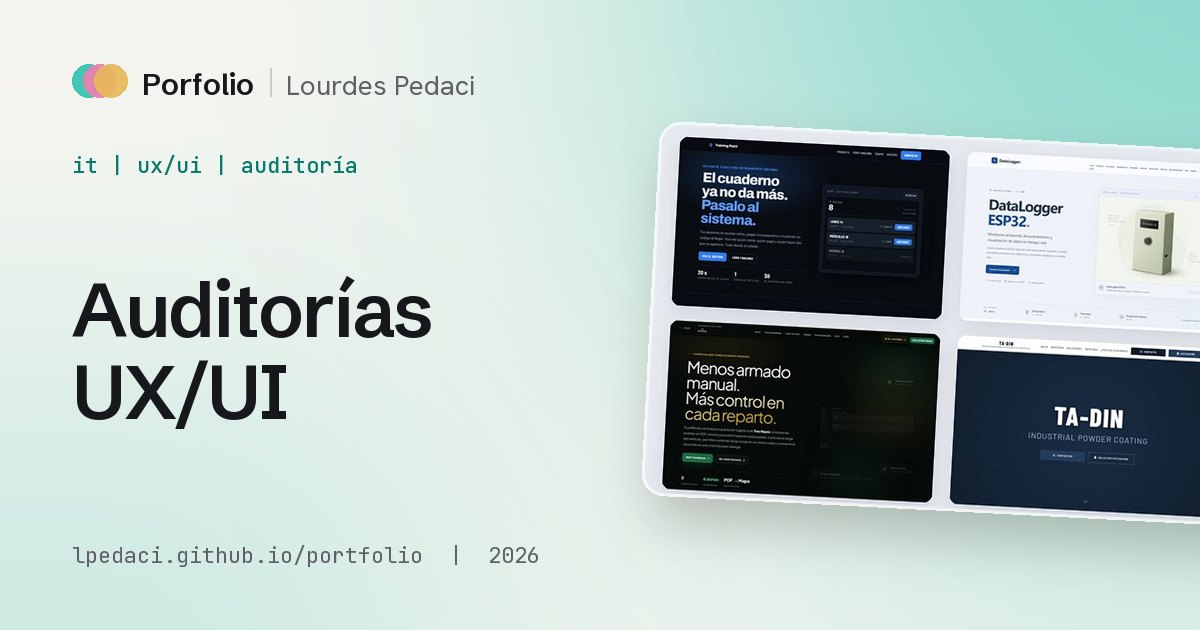
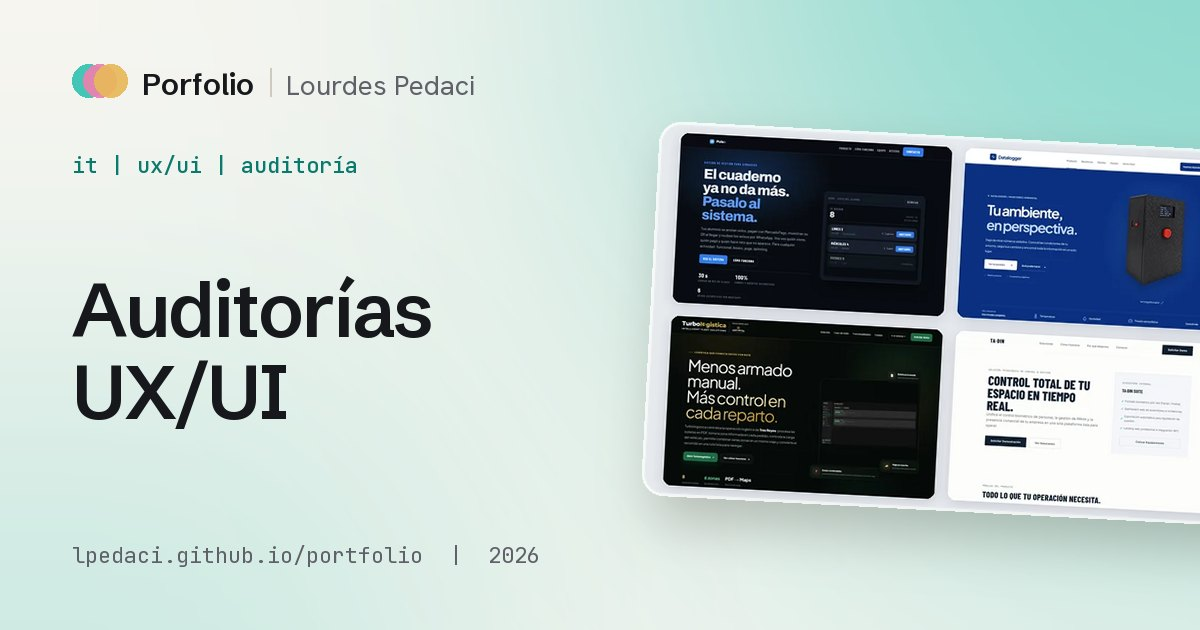
fix: Auditorías UX/UI con la portada armada con las capturas actuales del hub (Pulso1, Datalogger, Tres Reyes y TADIN), enlaces de Pulso1 y TADIN a sus landings nuevas y la tarjeta de Pulso1 renombrada como Gimnasio

Changed region(s): [[0.555, 0.2111, 1.0, 0.8444], [0.6783, 0.7238, 0.7092, 0.754]]

diff --git a/casos/el-aula-que-incluye/index.html b/casos/el-aula-que-incluye/index.html
@@ -33,9 +33,9 @@
   <meta name="twitter:image:alt" content="El aula que incluye: IA generativa para la inclusión en el nivel inicial: caso del porfolio de Lourdes Pedaci, Experience Designer, con una captura del proyecto.">
   <link rel="preload" href="../../assets/fonts/hanken-grotesk-latin.woff2" as="font" type="font/woff2" crossorigin>
   <link rel="preload" href="../../assets/fonts/schibsted-grotesk-latin.woff2" as="font" type="font/woff2" crossorigin>
-  <link rel="stylesheet" href="../../assets/css/fonts.css?v=202611230020">
-  <link rel="stylesheet" href="../../assets/css/icons.css?v=202611230020">
-  <link rel="stylesheet" href="../../assets/css/styles.css?v=202611230020">
+  <link rel="stylesheet" href="../../assets/css/fonts.css?v=202611230028">
+  <link rel="stylesheet" href="../../assets/css/icons.css?v=202611230028">
+  <link rel="stylesheet" href="../../assets/css/styles.css?v=202611230028">
 </head>
 <body data-slug="el-aula-que-incluye">
   <a class="skip" href="#main" data-i18n="skip">Ir al contenido</a>
@@ -71,10 +71,10 @@
       <a class="foot__top" href="#main"><span data-i18n="backTop">Volver arriba</span><i class="ph ph-arrow-up" aria-hidden="true"></i></a>
     </div>
   </footer>
-  <script src="../../assets/js/i18n.js?v=202611230020"></script>
-  <script src="../../assets/js/projects.js?v=202611230020"></script>
-  <script src="../../assets/js/cases.js?v=202611230020"></script>
-  <script src="../../assets/js/case.js?v=202611230020"></script>
-  <script src="../../assets/js/nav.js?v=202611230020"></script>
+  <script src="../../assets/js/i18n.js?v=202611230028"></script>
+  <script src="../../assets/js/projects.js?v=202611230028"></script>
+  <script src="../../assets/js/cases.js?v=202611230028"></script>
+  <script src="../../assets/js/case.js?v=202611230028"></script>
+  <script src="../../assets/js/nav.js?v=202611230028"></script>
 </body>
 </html>

diff --git a/casos/servidor/index.html b/casos/servidor/index.html
@@ -33,9 +33,9 @@
   <meta name="twitter:image:alt" content="Repositorio web de recursos para autocapacitarse: análisis y diseño UX/UI: caso del porfolio de Lourdes Pedaci, Experience Designer, con una captura del proyecto.">
   <link rel="preload" href="../../assets/fonts/hanken-grotesk-latin.woff2" as="font" type="font/woff2" crossorigin>
   <link rel="preload" href="../../assets/fonts/schibsted-grotesk-latin.woff2" as="font" type="font/woff2" crossorigin>
-  <link rel="stylesheet" href="../../assets/css/fonts.css?v=202611230020">
-  <link rel="stylesheet" href="../../assets/css/icons.css?v=202611230020">
-  <link rel="stylesheet" href="../../assets/css/styles.css?v=202611230020">
+  <link rel="stylesheet" href="../../assets/css/fonts.css?v=202611230028">
+  <link rel="stylesheet" href="../../assets/css/icons.css?v=202611230028">
+  <link rel="stylesheet" href="../../assets/css/styles.css?v=202611230028">
 </head>
 <body data-slug="servidor">
   <a class="skip" href="#main" data-i18n="skip">Ir al contenido</a>
@@ -71,10 +71,10 @@
       <a class="foot__top" href="#main"><span data-i18n="backTop">Volver arriba</span><i class="ph ph-arrow-up" aria-hidden="true"></i></a>
     </div>
   </footer>
-  <script src="../../assets/js/i18n.js?v=202611230020"></script>
-  <script src="../../assets/js/projects.js?v=202611230020"></script>
-  <script src="../../assets/js/cases.js?v=202611230020"></script>
-  <script src="../../assets/js/case.js?v=202611230020"></script>
-  <script src="../../assets/js/nav.js?v=202611230020"></script>
+  <script src="../../assets/js/i18n.js?v=202611230028"></script>
+  <script src="../../assets/js/projects.js?v=202611230028"></script>
+  <script src="../../assets/js/cases.js?v=202611230028"></script>
+  <script src="../../assets/js/case.js?v=202611230028"></script>
+  <script src="../../assets/js/nav.js?v=202611230028"></script>
 </body>
 </html>

diff --git a/casos/podcast-el-aula-que-incluye/index.html b/casos/podcast-el-aula-que-incluye/index.html
@@ -33,9 +33,9 @@
   <meta name="twitter:image:alt" content="Podcast El aula que incluye, a dos voces sintéticas: caso del porfolio de Lourdes Pedaci, Experience Designer, con una captura del proyecto.">
   <link rel="preload" href="../../assets/fonts/hanken-grotesk-latin.woff2" as="font" type="font/woff2" crossorigin>
   <link rel="preload" href="../../assets/fonts/schibsted-grotesk-latin.woff2" as="font" type="font/woff2" crossorigin>
-  <link rel="stylesheet" href="../../assets/css/fonts.css?v=202611230020">
-  <link rel="stylesheet" href="../../assets/css/icons.css?v=202611230020">
-  <link rel="stylesheet" href="../../assets/css/styles.css?v=202611230020">
+  <link rel="stylesheet" href="../../assets/css/fonts.css?v=202611230028">
+  <link rel="stylesheet" href="../../assets/css/icons.css?v=202611230028">
+  <link rel="stylesheet" href="../../assets/css/styles.css?v=202611230028">
 </head>
 <body data-slug="podcast-el-aula-que-incluye">
   <a class="skip" href="#main" data-i18n="skip">Ir al contenido</a>
@@ -71,10 +71,10 @@
       <a class="foot__top" href="#main"><span data-i18n="backTop">Volver arriba</span><i class="ph ph-arrow-up" aria-hidden="true"></i></a>
     </div>
   </footer>
-  <script src="../../assets/js/i18n.js?v=202611230020"></script>
-  <script src="../../assets/js/projects.js?v=202611230020"></script>
-  <script src="../../assets/js/cases.js?v=202611230020"></script>
-  <script src="../../assets/js/case.js?v=202611230020"></script>
-  <script src="../../assets/js/nav.js?v=202611230020"></script>
+  <script src="../../assets/js/i18n.js?v=202611230028"></script>
+  <script src="../../assets/js/projects.js?v=202611230028"></script>
+  <script src="../../assets/js/cases.js?v=202611230028"></script>
+  <script src="../../assets/js/case.js?v=202611230028"></script>
+  <script src="../../assets/js/nav.js?v=202611230028"></script>
 </body>
 </html>

diff --git a/casos/preguntale-a-berni/index.html b/casos/preguntale-a-berni/index.html
@@ -33,9 +33,9 @@
   <meta name="twitter:image:alt" content="Preguntale a Berni: un asistente guiado sin campo de texto: caso del porfolio de Lourdes Pedaci, Experience Designer, con una captura del proyecto.">
   <link rel="preload" href="../../assets/fonts/hanken-grotesk-latin.woff2" as="font" type="font/woff2" crossorigin>
   <link rel="preload" href="../../assets/fonts/schibsted-grotesk-latin.woff2" as="font" type="font/woff2" crossorigin>
-  <link rel="stylesheet" href="../../assets/css/fonts.css?v=202611230020">
-  <link rel="stylesheet" href="../../assets/css/icons.css?v=202611230020">
-  <link rel="stylesheet" href="../../assets/css/styles.css?v=202611230020">
+  <link rel="stylesheet" href="../../assets/css/fonts.css?v=202611230028">
+  <link rel="stylesheet" href="../../assets/css/icons.css?v=202611230028">
+  <link rel="stylesheet" href="../../assets/css/styles.css?v=202611230028">
 </head>
 <body data-slug="preguntale-a-berni">
   <a class="skip" href="#main" data-i18n="skip">Ir al contenido</a>
@@ -71,10 +71,10 @@
       <a class="foot__top" href="#main"><span data-i18n="backTop">Volver arriba</span><i class="ph ph-arrow-up" aria-hidden="true"></i></a>
     </div>
   </footer>
-  <script src="../../assets/js/i18n.js?v=202611230020"></script>
-  <script src="../../assets/js/projects.js?v=202611230020"></script>
-  <script src="../../assets/js/cases.js?v=202611230020"></script>
-  <script src="../../assets/js/case.js?v=202611230020"></script>
-  <script src="../../assets/js/nav.js?v=202611230020"></script>
+  <script src="../../assets/js/i18n.js?v=202611230028"></script>
+  <script src="../../assets/js/projects.js?v=202611230028"></script>
+  <script src="../../assets/js/cases.js?v=202611230028"></script>
+  <script src="../../assets/js/case.js?v=202611230028"></script>
+  <script src="../../assets/js/nav.js?v=202611230028"></script>
 </body>
 </html>

diff --git a/casos/escape-room-finanzas/index.html b/casos/escape-room-finanzas/index.html
@@ -33,9 +33,9 @@
   <meta name="twitter:image:alt" content="Tu primer sueldo: escape room de finanzas personales: caso del porfolio de Lourdes Pedaci, Experience Designer, con una captura del proyecto.">
   <link rel="preload" href="../../assets/fonts/hanken-grotesk-latin.woff2" as="font" type="font/woff2" crossorigin>
   <link rel="preload" href="../../assets/fonts/schibsted-grotesk-latin.woff2" as="font" type="font/woff2" crossorigin>
-  <link rel="stylesheet" href="../../assets/css/fonts.css?v=202611230020">
-  <link rel="stylesheet" href="../../assets/css/icons.css?v=202611230020">
-  <link rel="stylesheet" href="../../assets/css/styles.css?v=202611230020">
+  <link rel="stylesheet" href="../../assets/css/fonts.css?v=202611230028">
+  <link rel="stylesheet" href="../../assets/css/icons.css?v=202611230028">
+  <link rel="stylesheet" href="../../assets/css/styles.css?v=202611230028">
 </head>
 <body data-slug="escape-room-finanzas">
   <a class="skip" href="#main" data-i18n="skip">Ir al contenido</a>
@@ -71,10 +71,10 @@
       <a class="foot__top" href="#main"><span data-i18n="backTop">Volver arriba</span><i class="ph ph-arrow-up" aria-hidden="true"></i></a>
     </div>
   </footer>
-  <script src="../../assets/js/i18n.js?v=202611230020"></script>
-  <script src="../../assets/js/projects.js?v=202611230020"></script>
-  <script src="../../assets/js/cases.js?v=202611230020"></script>
-  <script src="../../assets/js/case.js?v=202611230020"></script>
-  <script src="../../assets/js/nav.js?v=202611230020"></script>
+  <script src="../../assets/js/i18n.js?v=202611230028"></script>
+  <script src="../../assets/js/projects.js?v=202611230028"></script>
+  <script src="../../assets/js/cases.js?v=202611230028"></script>
+  <script src="../../assets/js/case.js?v=202611230028"></script>
+  <script src="../../assets/js/nav.js?v=202611230028"></script>
 </body>
 </html>

diff --git a/casos/sistemas-operativos/index.html b/casos/sistemas-operativos/index.html
@@ -33,9 +33,9 @@
   <meta name="twitter:image:alt" content="Sistemas Operativos: almacenamiento y seteo: caso del porfolio de Lourdes Pedaci, Experience Designer, con una captura del proyecto.">
   <link rel="preload" href="../../assets/fonts/hanken-grotesk-latin.woff2" as="font" type="font/woff2" crossorigin>
   <link rel="preload" href="../../assets/fonts/schibsted-grotesk-latin.woff2" as="font" type="font/woff2" crossorigin>
-  <link rel="stylesheet" href="../../assets/css/fonts.css?v=202611230020">
-  <link rel="stylesheet" href="../../assets/css/icons.css?v=202611230020">
-  <link rel="stylesheet" href="../../assets/css/styles.css?v=202611230020">
+  <link rel="stylesheet" href="../../assets/css/fonts.css?v=202611230028">
+  <link rel="stylesheet" href="../../assets/css/icons.css?v=202611230028">
+  <link rel="stylesheet" href="../../assets/css/styles.css?v=202611230028">
 </head>
 <body data-slug="sistemas-operativos">
   <a class="skip" href="#main" data-i18n="skip">Ir al contenido</a>
@@ -71,10 +71,10 @@
       <a class="foot__top" href="#main"><span data-i18n="backTop">Volver arriba</span><i class="ph ph-arrow-up" aria-hidden="true"></i></a>
     </div>
   </footer>
-  <script src="../../assets/js/i18n.js?v=202611230020"></script>
-  <script src="../../assets/js/projects.js?v=202611230020"></script>
-  <script src="../../assets/js/cases.js?v=202611230020"></script>
-  <script src="../../assets/js/case.js?v=202611230020"></script>
-  <script src="../../assets/js/nav.js?v=202611230020"></script>
+  <script src="../../assets/js/i18n.js?v=202611230028"></script>
+  <script src="../../assets/js/projects.js?v=202611230028"></script>
+  <script src="../../assets/js/cases.js?v=202611230028"></script>
+  <script src="../../assets/js/case.js?v=202611230028"></script>
+  <script src="../../assets/js/nav.js?v=202611230028"></script>
 </body>
 </html>

diff --git a/casos/videos-ia-generativa/index.html b/casos/videos-ia-generativa/index.html
@@ -33,9 +33,9 @@
   <meta name="twitter:image:alt" content="Animación y documental con IA generativa: caso del porfolio de Lourdes Pedaci, Experience Designer, con una captura del proyecto.">
   <link rel="preload" href="../../assets/fonts/hanken-grotesk-latin.woff2" as="font" type="font/woff2" crossorigin>
   <link rel="preload" href="../../assets/fonts/schibsted-grotesk-latin.woff2" as="font" type="font/woff2" crossorigin>
-  <link rel="stylesheet" href="../../assets/css/fonts.css?v=202611230020">
-  <link rel="stylesheet" href="../../assets/css/icons.css?v=202611230020">
-  <link rel="stylesheet" href="../../assets/css/styles.css?v=202611230020">
+  <link rel="stylesheet" href="../../assets/css/fonts.css?v=202611230028">
+  <link rel="stylesheet" href="../../assets/css/icons.css?v=202611230028">
+  <link rel="stylesheet" href="../../assets/css/styles.css?v=202611230028">
 </head>
 <body data-slug="videos-ia-generativa">
   <a class="skip" href="#main" data-i18n="skip">Ir al contenido</a>
@@ -71,10 +71,10 @@
       <a class="foot__top" href="#main"><span data-i18n="backTop">Volver arriba</span><i class="ph ph-arrow-up" aria-hidden="true"></i></a>
     </div>
   </footer>
-  <script src="../../assets/js/i18n.js?v=202611230020"></script>
-  <script src="../../assets/js/projects.js?v=202611230020"></script>
-  <script src="../../assets/js/cases.js?v=202611230020"></script>
-  <script src="../../assets/js/case.js?v=202611230020"></script>
-  <script src="../../assets/js/nav.js?v=202611230020"></script>
+  <script src="../../assets/js/i18n.js?v=202611230028"></script>
+  <script src="../../assets/js/projects.js?v=202611230028"></script>
+  <script src="../../assets/js/cases.js?v=202611230028"></script>
+  <script src="../../assets/js/case.js?v=202611230028"></script>
+  <script src="../../assets/js/nav.js?v=202611230028"></script>
 </body>
 </html>

diff --git a/casos/auditoria-estetica/index.html b/casos/auditoria-estetica/index.html
@@ -33,9 +33,9 @@
   <meta name="twitter:image:alt" content="Auditoría UX/UI de un centro de estética: caso del porfolio de Lourdes Pedaci, Experience Designer, con una captura del proyecto.">
   <link rel="preload" href="../../assets/fonts/hanken-grotesk-latin.woff2" as="font" type="font/woff2" crossorigin>
   <link rel="preload" href="../../assets/fonts/schibsted-grotesk-latin.woff2" as="font" type="font/woff2" crossorigin>
-  <link rel="stylesheet" href="../../assets/css/fonts.css?v=202611230020">
-  <link rel="stylesheet" href="../../assets/css/icons.css?v=202611230020">
-  <link rel="stylesheet" href="../../assets/css/styles.css?v=202611230020">
+  <link rel="stylesheet" href="../../assets/css/fonts.css?v=202611230028">
+  <link rel="stylesheet" href="../../assets/css/icons.css?v=202611230028">
+  <link rel="stylesheet" href="../../assets/css/styles.css?v=202611230028">
 </head>
 <body data-slug="auditoria-estetica">
   <a class="skip" href="#main" data-i18n="skip">Ir al contenido</a>
@@ -71,10 +71,10 @@
       <a class="foot__top" href="#main"><span data-i18n="backTop">Volver arriba</span><i class="ph ph-arrow-up" aria-hidden="true"></i></a>
     </div>
   </footer>
-  <script src="../../assets/js/i18n.js?v=202611230020"></script>
-  <script src="../../assets/js/projects.js?v=202611230020"></script>
-  <script src="../../assets/js/cases.js?v=202611230020"></script>
-  <script src="../../assets/js/case.js?v=202611230020"></script>
-  <script src="../../assets/js/nav.js?v=202611230020"></script>
+  <script src="../../assets/js/i18n.js?v=202611230028"></script>
+  <script src="../../assets/js/projects.js?v=202611230028"></script>
+  <script src="../../assets/js/cases.js?v=202611230028"></script>
+  <script src="../../assets/js/case.js?v=202611230028"></script>
+  <script src="../../assets/js/nav.js?v=202611230028"></script>
 </body>
 </html>

diff --git a/casos/riesgos-digitales/index.html b/casos/riesgos-digitales/index.html
@@ -33,9 +33,9 @@
   <meta name="twitter:image:alt" content="Programa participativo de riesgos digitales: caso del porfolio de Lourdes Pedaci, Experience Designer, con una captura del proyecto.">
   <link rel="preload" href="../../assets/fonts/hanken-grotesk-latin.woff2" as="font" type="font/woff2" crossorigin>
   <link rel="preload" href="../../assets/fonts/schibsted-grotesk-latin.woff2" as="font" type="font/woff2" crossorigin>
-  <link rel="stylesheet" href="../../assets/css/fonts.css?v=202611230020">
-  <link rel="stylesheet" href="../../assets/css/icons.css?v=202611230020">
-  <link rel="stylesheet" href="../../assets/css/styles.css?v=202611230020">
+  <link rel="stylesheet" href="../../assets/css/fonts.css?v=202611230028">
+  <link rel="stylesheet" href="../../assets/css/icons.css?v=202611230028">
+  <link rel="stylesheet" href="../../assets/css/styles.css?v=202611230028">
 </head>
 <body data-slug="riesgos-digitales">
   <a class="skip" href="#main" data-i18n="skip">Ir al contenido</a>
@@ -71,10 +71,10 @@
       <a class="foot__top" href="#main"><span data-i18n="backTop">Volver arriba</span><i class="ph ph-arrow-up" aria-hidden="true"></i></a>
     </div>
   </footer>
-  <script src="../../assets/js/i18n.js?v=202611230020"></script>
-  <script src="../../assets/js/projects.js?v=202611230020"></script>
-  <script src="../../assets/js/cases.js?v=202611230020"></script>
-  <script src="../../assets/js/case.js?v=202611230020"></script>
-  <script src="../../assets/js/nav.js?v=202611230020"></script>
+  <script src="../../assets/js/i18n.js?v=202611230028"></script>
+  <script src="../../assets/js/projects.js?v=202611230028"></script>
+  <script src="../../assets/js/cases.js?v=202611230028"></script>
+  <script src="../../assets/js/case.js?v=202611230028"></script>
+  <script src="../../assets/js/nav.js?v=202611230028"></script>
 </body>
 </html>

diff --git a/casos/infraestructura-it/index.html b/casos/infraestructura-it/index.html
@@ -33,9 +33,9 @@
   <meta name="twitter:image:alt" content="Estandarización de infraestructura IT: caso del porfolio de Lourdes Pedaci, Experience Designer, con una captura del proyecto.">
   <link rel="preload" href="../../assets/fonts/hanken-grotesk-latin.woff2" as="font" type="font/woff2" crossorigin>
   <link rel="preload" href="../../assets/fonts/schibsted-grotesk-latin.woff2" as="font" type="font/woff2" crossorigin>
-  <link rel="stylesheet" href="../../assets/css/fonts.css?v=202611230020">
-  <link rel="stylesheet" href="../../assets/css/icons.css?v=202611230020">
-  <link rel="stylesheet" href="../../assets/css/styles.css?v=202611230020">
+  <link rel="stylesheet" href="../../assets/css/fonts.css?v=202611230028">
+  <link rel="stylesheet" href="../../assets/css/icons.css?v=202611230028">
+  <link rel="stylesheet" href="../../assets/css/styles.css?v=202611230028">
 </head>
 <body data-slug="infraestructura-it">
   <a class="skip" href="#main" data-i18n="skip">Ir al contenido</a>
@@ -71,10 +71,10 @@
       <a class="foot__top" href="#main"><span data-i18n="backTop">Volver arriba</span><i class="ph ph-arrow-up" aria-hidden="true"></i></a>
     </div>
   </footer>
-  <script src="../../assets/js/i18n.js?v=202611230020"></script>
-  <script src="../../assets/js/projects.js?v=202611230020"></script>
-  <script src="../../assets/js/cases.js?v=202611230020"></script>
-  <script src="../../assets/js/case.js?v=202611230020"></script>
-  <script src="../../assets/js/nav.js?v=202611230020"></script>
+  <script src="../../assets/js/i18n.js?v=202611230028"></script>
+  <script src="../../assets/js/projects.js?v=202611230028"></script>
+  <script src="../../assets/js/cases.js?v=202611230028"></script>
+  <script src="../../assets/js/case.js?v=202611230028"></script>
+  <script src="../../assets/js/nav.js?v=202611230028"></script>
 </body>
 </html>

diff --git a/casos/auditoria-turnos/index.html b/casos/auditoria-turnos/index.html
@@ -33,9 +33,9 @@
   <meta name="twitter:image:alt" content="Auditoría UX/UI de un portal de turnos: caso del porfolio de Lourdes Pedaci, Experience Designer, con una captura del proyecto.">
   <link rel="preload" href="../../assets/fonts/hanken-grotesk-latin.woff2" as="font" type="font/woff2" crossorigin>
   <link rel="preload" href="../../assets/fonts/schibsted-grotesk-latin.woff2" as="font" type="font/woff2" crossorigin>
-  <link rel="stylesheet" href="../../assets/css/fonts.css?v=202611230020">
-  <link rel="stylesheet" href="../../assets/css/icons.css?v=202611230020">
-  <link rel="stylesheet" href="../../assets/css/styles.css?v=202611230020">
+  <link rel="stylesheet" href="../../assets/css/fonts.css?v=202611230028">
+  <link rel="stylesheet" href="../../assets/css/icons.css?v=202611230028">
+  <link rel="stylesheet" href="../../assets/css/styles.css?v=202611230028">
 </head>
 <body data-slug="auditoria-turnos">
   <a class="skip" href="#main" data-i18n="skip">Ir al contenido</a>
@@ -71,10 +71,10 @@
       <a class="foot__top" href="#main"><span data-i18n="backTop">Volver arriba</span><i class="ph ph-arrow-up" aria-hidden="true"></i></a>
     </div>
   </footer>
-  <script src="../../assets/js/i18n.js?v=202611230020"></script>
-  <script src="../../assets/js/projects.js?v=202611230020"></script>
-  <script src="../../assets/js/cases.js?v=202611230020"></script>
-  <script src="../../assets/js/case.js?v=202611230020"></script>
-  <script src="../../assets/js/nav.js?v=202611230020"></script>
+  <script src="../../assets/js/i18n.js?v=202611230028"></script>
+  <script src="../../assets/js/projects.js?v=202611230028"></script>
+  <script src="../../assets/js/cases.js?v=202611230028"></script>
+  <script src="../../assets/js/case.js?v=202611230028"></script>
+  <script src="../../assets/js/nav.js?v=202611230028"></script>
 </body>
 </html>

diff --git a/casos/alcancia/index.html b/casos/alcancia/index.html
@@ -33,9 +33,9 @@
   <meta name="twitter:image:alt" content="Alcancía, simulador de finanzas personales: caso del porfolio de Lourdes Pedaci, Experience Designer, con una captura del proyecto.">
   <link rel="preload" href="../../assets/fonts/hanken-grotesk-latin.woff2" as="font" type="font/woff2" crossorigin>
   <link rel="preload" href="../../assets/fonts/schibsted-grotesk-latin.woff2" as="font" type="font/woff2" crossorigin>
-  <link rel="stylesheet" href="../../assets/css/fonts.css?v=202611230020">
-  <link rel="stylesheet" href="../../assets/css/icons.css?v=202611230020">
-  <link rel="stylesheet" href="../../assets/css/styles.css?v=202611230020">
+  <link rel="stylesheet" href="../../assets/css/fonts.css?v=202611230028">
+  <link rel="stylesheet" href="../../assets/css/icons.css?v=202611230028">
+  <link rel="stylesheet" href="../../assets/css/styles.css?v=202611230028">
 </head>
 <body data-slug="alcancia">
   <a class="skip" href="#main" data-i18n="skip">Ir al contenido</a>
@@ -71,10 +71,10 @@
       <a class="foot__top" href="#main"><span data-i18n="backTop">Volver arriba</span><i class="ph ph-arrow-up" aria-hidden="true"></i></a>
     </div>
   </footer>
-  <script src="../../assets/js/i18n.js?v=202611230020"></script>
-  <script src="../../assets/js/projects.js?v=202611230020"></script>
-  <script src="../../assets/js/cases.js?v=202611230020"></script>
-  <script src="../../assets/js/case.js?v=202611230020"></script>
-  <script src="../../assets/js/nav.js?v=202611230020"></script>
+  <script src="../../assets/js/i18n.js?v=202611230028"></script>
+  <script src="../../assets/js/projects.js?v=202611230028"></script>
+  <script src="../../assets/js/cases.js?v=202611230028"></script>
+  <script src="../../assets/js/case.js?v=202611230028"></script>
+  <script src="../../assets/js/nav.js?v=202611230028"></script>
 </body>
 </html>
